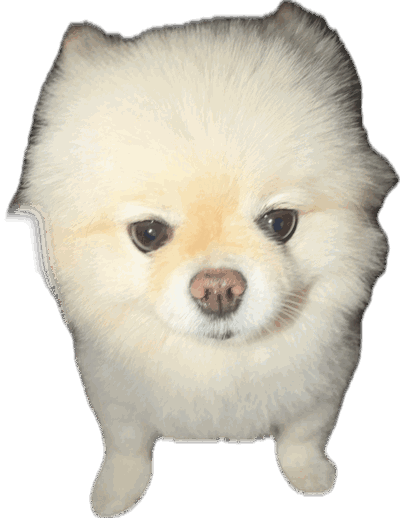
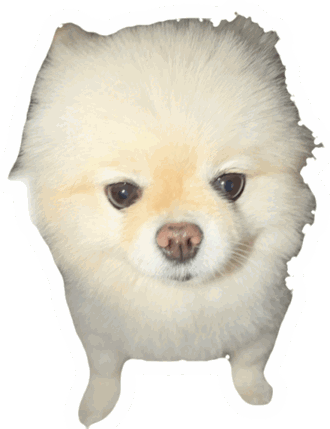
첫 화면 강아지를 스티커로 다시 따고, 말풍선 옆에 세우기
누끼를 다시 땄다. 흰 바탕에 합친 뒤 rembg(u2net, alpha matting)로 잘랐는데,
원본에 박혀 있던 검은 테두리는 rembg 가 강아지의 일부로 보기 때문에 그대로
남았다. 그래서 알파를 Disk:6 만큼 깎아 털끝을 다듬은 뒤, 가장자리 띠 안에서만
어두운 픽셀을 골라 지웠다. 띠 밖까지 지우면 눈과 코가 뚫린다.

그다음 알파를 Disk:20 으로 부풀려 흰 실루엣을 만들고 그 위에 강아지를 얹어
스티커 테두리를 둘렀다. 남은 얼룩도 이 테두리가 가려 준다.

리본은 머리에서 목으로 내려 나비넥타이가 됐다(top 65%). 69% 는 가슴까지
내려가고, 60% 는 입에 문 것처럼 보였다.

인사줄을 강아지(왼쪽) + 말풍선(오른쪽)으로 바꿨다. 말풍선에 왼쪽을 가리키는
꼬리를 새로 만들어 강아지가 말하는 모양이 된다. 안에는 "급수를 골라 주세요" 를
크게, "모르는 단어만 계속 돌아와요 💫" 를 작게 넣었다. 폰 폭에서 한 줄에
들어가도록 강아지를 104px 로 고정했다. 더 키우면 이모지가 혼자 다음 줄로 밀린다.

카드 화면에서 메모장 잡은 강아지는 취소했다. 그림 두 장과 관련 규칙을 지웠다.

급수 버튼과 다른 기능은 그대로다. 강아지 검사를 새 배치에 맞춰 다시 쓰고
(폭 320·390·430px), 기능 44가지·카드 10가지·테마 23가지도 그대로 통과한다.

Claude-Session: https://claude.ai/code/session_01PovSBsqtckLb3HViB4k4Bm

diff --git a/jlpt_version/스타일.css b/jlpt_version/스타일.css
@@ -462,7 +462,8 @@ body {
 
 /* 꼬리: 테두리색 삼각형 위에 흰 삼각형을 겹쳐 올린다 */
 .말풍선.아래꼬리::before, .말풍선.아래꼬리::after,
-.말풍선.위꼬리::before, .말풍선.위꼬리::after {
+.말풍선.위꼬리::before, .말풍선.위꼬리::after,
+.말풍선.왼꼬리::before, .말풍선.왼꼬리::after {
   content: "";
   position: absolute;
   left: 50%;
@@ -471,12 +472,25 @@ body {
 }
 
 /* 흰 삼각형(::after)을 2px 작게 겹쳐서 테두리색이 둘레로만 보이게 한다. */
-.말풍선.아래꼬리::after, .말풍선.위꼬리::after { border-width: 9px; }
+.말풍선.아래꼬리::after, .말풍선.위꼬리::after, .말풍선.왼꼬리::after { border-width: 9px; }
 
 .말풍선.아래꼬리::before { bottom: -21px; border-top-color: var(--핑크); }
 .말풍선.아래꼬리::after  { bottom: -17px; border-top-color: var(--말풍선바탕); }
 .말풍선.위꼬리::before   { top: -21px; border-bottom-color: var(--핑크); }
 .말풍선.위꼬리::after    { top: -17px; border-bottom-color: var(--말풍선바탕); }
+
+/* 왼쪽(강아지 쪽)을 가리키는 꼬리 */
+.말풍선.왼꼬리::before {
+  left: -21px; top: 50%;
+  transform: translateY(-50%);
+  border-right-color: var(--핑크);
+}
+
+.말풍선.왼꼬리::after {
+  left: -16px; top: 50%;
+  transform: translateY(-50%);
+  border-right-color: var(--말풍선바탕);
+}
 
 /* 창버튼·초기화 결과를 알리는 쪽지 */
 .쪽지 {
@@ -583,15 +597,27 @@ body {
 .급수화면 { text-align: center; }
 
 /*
- * 급수 화면의 강아지. 사진 위에 리본 SVG 를 겹쳐 머리에 얹은 것처럼 보이게 한다.
- * 리본 자리는 사진 크기에 대한 비율(%)로 잡아 두어서, 사진 폭만 바꾸면 같이 따라간다.
+ * 인사줄 — 왼쪽에 강아지, 오른쪽에 말풍선. 강아지가 말을 거는 모양이다.
+ * 좁은 폰 화면에서도 한 줄에 들어가야 해서 강아지 폭을 고정하고 말풍선이 남은 폭을 가진다.
+ */
+.인사줄 {
+  display: flex;
+  align-items: center;
+  gap: 10px;
+  margin-bottom: 18px;
+  text-align: left;
+}
+
+/*
+ * 강아지 사진은 흰 테두리를 두른 스티커다(그림/리본강아지.png).
+ * 리본 자리는 사진 크기에 대한 비율(%)이라 사진 폭만 바꾸면 같이 따라간다.
  */
 .리본강아지 {
   position: relative;
-  display: inline-block;
-  width: 134px;
-  margin-bottom: 2px;
+  flex: 0 0 104px;
+  width: 104px;
   line-height: 0;
+  filter: drop-shadow(0 3px 3px rgba(120, 60, 100, .3));
 }
 
 .강아지사진 {
@@ -600,25 +626,35 @@ body {
   filter: brightness(var(--사진밝기));
 }
 
+/* 목에 맨 나비넥타이. 턱 바로 아래 가슴털 자리다. 더 올리면 입에 문 것처럼 보인다. */
 .리본 {
   position: absolute;
-  left: 24%;
-  top: 1%;
-  width: 52%;
+  left: 27%;
+  top: 65%;
+  width: 46%;
   height: auto;
-  transform: rotate(-9deg);
+  transform: rotate(-4deg);
   filter: drop-shadow(0 2px 2px rgba(120, 60, 100, .35));
 }
 
+.인사말풍선 {
+  flex: 1 1 auto;
+  min-width: 0;
+  max-width: none;
+  margin: 0;
+  padding: 11px 13px;
+  text-align: center;
+}
+
 .급수제목 {
-  margin: 0 0 2px;
-  font-size: 1.4rem;
+  margin: 0 0 4px;
+  font-size: 1.32rem;
   font-weight: 400;
   color: var(--핑크글자);
   text-shadow: var(--제목글자그림자);
 }
 
-.작은안내 { margin: 0 0 16px; font-size: .9rem; color: var(--보조글자); }
+.작은안내 { margin: 0; font-size: .78rem; line-height: 1.4; color: var(--보조글자); word-break: keep-all; }
 
 .급수버튼줄 { display: flex; flex-direction: column; gap: 13px; }
 
@@ -664,43 +700,6 @@ body {
 .회차글 { margin: 5px 0 0; font-size: .8rem; color: var(--보조글자); }
 
 /* ── 단어 카드 (스프링 다이어리 속지) ──────────────── */
-
-/*
- * 카드 위로 얼굴을 내민 모자 강아지와, 속지에 걸친 앞발.
- * 메모장칸 의 위쪽 여백이 얼굴이 올라앉을 자리다.
- * 얼굴은 속지의 위쪽 안쪽 여백(44px)까지만 내려오게 해서 글씨를 가리지 않는다.
- */
-.메모장칸 {
-  position: relative;
-  padding-top: 68px;   /* 얼굴이 내려앉을 자리. 줄이면 턱이 글자를 건드린다 */
-}
-
-.메모장강아지 {
-  position: absolute;
-  z-index: 3;
-  top: 0;
-  left: 50%;
-  width: 132px;
-  height: auto;
-  transform: translateX(-52%);
-  filter: brightness(var(--사진밝기)) drop-shadow(0 3px 4px rgba(120, 60, 100, .35));
-}
-
-/*
- * 앞발. 얼굴에서 충분히 떨어뜨려 놓는다. 너무 가까우면 귀처럼 보인다.
- * 위쪽 절반이 속지 테두리에 걸쳐서 "메모장을 잡은" 모양이 된다.
- */
-.강아지발 {
-  position: absolute;
-  z-index: 2;
-  top: 56px;
-  width: 48px;
-  height: auto;
-  filter: brightness(var(--사진밝기)) drop-shadow(0 2px 3px rgba(120, 60, 100, .3));
-}
-
-.강아지발.왼발 { left: calc(50% - 112px); transform: rotate(18deg); }
-.강아지발.오른발 { right: calc(50% - 112px); transform: scaleX(-1) rotate(18deg); }
 
 /* 지브라 무늬는 여기, 카드 바깥 테두리에만 얇게 둘린다. */
 .다이어리바깥 {

diff --git a/jlpt_version/index.html b/jlpt_version/index.html
@@ -86,17 +86,24 @@
 
     <!-- 1번째 화면: 급수 선택 -->
     <section class="화면 급수화면" id="급수화면" aria-labelledby="급수제목">
-      <!-- 리본을 머리에 얹은 강아지. 사진과 리본 모두 장식이라 낭독기에서는 숨긴다. -->
-      <div class="리본강아지" aria-hidden="true">
-        <img class="강아지사진" src="그림/리본강아지.png" alt="" width="400" height="518">
-        <svg class="리본" viewBox="0 0 160 60">
-          <path d="M80 34c-14-2-26-16-40-22-8-3-14 2-13 10 1 9 13 15 29 16-11 3-20 7-20 14 0 6 7 9 14 6 12-5 22-14 30-22z" fill="#ff8cc6" stroke="#e0397f" stroke-width="2.5"/>
-          <path d="M80 34c14-2 26-16 40-22 8-3 14 2 13 10-1 9-13 15-29 16 11 3 20 7 20 14 0 6-7 9-14 6-12-5-22-14-30-22z" fill="#ffa8d2" stroke="#e0397f" stroke-width="2.5"/>
-          <ellipse cx="80" cy="34" rx="11" ry="9" fill="#fff0f7" stroke="#e0397f" stroke-width="2.5"/>
-        </svg>
+      <!-- 왼쪽에 강아지 스티커, 오른쪽에 강아지가 말하는 말풍선 -->
+      <div class="인사줄">
+        <div class="리본강아지" aria-hidden="true">
+          <img class="강아지사진" src="그림/리본강아지.png" alt="" width="330" height="429">
+          <!-- 목에 맨 나비넥타이 -->
+          <svg class="리본" viewBox="0 0 160 60">
+            <path d="M80 34c-14-2-26-16-40-22-8-3-14 2-13 10 1 9 13 15 29 16-11 3-20 7-20 14 0 6 7 9 14 6 12-5 22-14 30-22z" fill="#ff8cc6" stroke="#e0397f" stroke-width="2.5"/>
+            <path d="M80 34c14-2 26-16 40-22 8-3 14 2 13 10-1 9-13 15-29 16 11 3 20 7 20 14 0 6-7 9-14 6-12-5-22-14-30-22z" fill="#ffa8d2" stroke="#e0397f" stroke-width="2.5"/>
+            <ellipse cx="80" cy="34" rx="11" ry="9" fill="#fff0f7" stroke="#e0397f" stroke-width="2.5"/>
+          </svg>
+        </div>
+
+        <div class="말풍선 인사말풍선 왼꼬리">
+          <h2 class="급수제목" id="급수제목">급수를 골라 주세요</h2>
+          <p class="작은안내">모르는 단어만 계속 돌아와요 💫</p>
+        </div>
       </div>
-      <h2 class="급수제목" id="급수제목">급수를 골라 주세요</h2>
-      <p class="작은안내">모르는 단어만 계속 돌아와요 💫</p>
+
       <div class="급수버튼줄" id="급수버튼줄">
         <!-- 급수 젤리 버튼은 앱.js 가 채운다 -->
       </div>
@@ -111,12 +118,7 @@
         <p class="회차글" id="회차글">1회차 · 남은 카드 0장</p>
       </div>
 
-      <!-- 지브라 무늬 테두리 안에 스프링 다이어리 속지.
-           모자 쓴 강아지가 속지 위로 얼굴을 내밀고 앞발을 걸친다. -->
-      <div class="메모장칸">
-        <img class="메모장강아지" src="그림/메모장강아지.png" alt="" aria-hidden="true" width="460" height="379">
-        <img class="강아지발 왼발" src="그림/강아지발.png" alt="" aria-hidden="true" width="150" height="153">
-        <img class="강아지발 오른발" src="그림/강아지발.png" alt="" aria-hidden="true" width="150" height="153">
+      <!-- 지브라 무늬 테두리 안에 스프링 다이어리 속지 -->
       <div class="다이어리바깥">
         <article class="다이어리" id="다이어리">
           <div class="스프링" aria-hidden="true">
@@ -130,7 +132,6 @@
           <p class="말풍선 뜻 위꼬리" id="뜻" hidden></p>
           <p class="가나알림" id="가나알림" hidden>한자가 없는 단어예요</p>
         </article>
-      </div>
       </div>
 
       <!-- 보여 줄 것 켜고 끄기 -->

diff --git a/jlpt_version/CLAUDE.md b/jlpt_version/CLAUDE.md
@@ -37,8 +37,8 @@ python -m http.server 8765 --directory jlpt_version    # 저장소 뿌리에서
     카드를 넘기는 0.3초 동안에도 글씨 뒤로 비치지 않는다
 11. 툴바의 🌙 를 누르면 밤 모드로 바뀌고, 글씨가 바탕에 묻히는 곳이 없다.
     새로고침해도, 🧹 기록 초기화를 해도 모드가 그대로다
-12. 급수 화면의 강아지가 리본을 **머리에** 쓰고 있고, 카드 화면의 강아지는 얼굴이
-    메모장 위로 나오고 앞발이 속지에 걸쳐 있다. **턱이 단어를 가리지 않는다**
+12. 급수 화면에서 강아지가 **왼쪽**, 말풍선이 **오른쪽**에 한 줄로 서고, 말풍선 꼬리가
+    강아지를 가리킨다. 리본은 **목에 맨 나비넥타이**다. 카드 화면에는 강아지가 없다
 
 `words.json` 만 고쳤다면 1·3·4 와 **콘솔 경고**만 봐도 된다.
 형식이 틀린 항목은 앱이 건너뛰면서 콘솔에 몇 번째 항목인지 적어 준다.
@@ -55,7 +55,7 @@ js/학습기록.js      localStorage 읽고 쓰기
 js/카드.js          카드 한 장 그리기 (화면만 만지고 기록은 안 건드림)
 js/꾸미기.js        쪽지 말풍선, 창 접기·닫기 장난, 시간 표시
 데이터/words.json   단어 데이터. 이것만 고치면 단어가 늘어난다
-그림/               강아지 사진 세 장 (사용자가 준 사진을 손질한 것)
+그림/리본강아지.png  급수 화면 강아지 스티커 (사용자가 준 사진을 손질한 것)
 ```
 
 ES 모듈(`<script type="module">`)을 쓴다. 그래서 파일을 나눠도 번들러가 필요 없다.
@@ -120,22 +120,28 @@ ES 모듈(`<script type="module">`)을 쓴다. 그래서 파일을 나눠도 번
 답이 먼저 보여 외우는 의미가 없기 때문이다. 그래서 버튼 상태는 **저장하지 않는다.**
 카드마다 꺼지므로 저장해 두어도 다시 쓸 일이 없다.
 
-**강아지 사진은 `그림/` 에 있고 손으로 고치지 않는다.** 사용자가 준 사진을 ImageMagick
-으로 손질한 결과물이다. 다시 만들 일이 있으면 원본부터 다시 손질한다.
+**`그림/리본강아지.png` 는 손으로 고치지 않는다.** 사용자가 준 사진을 이 순서로 만든
+결과물이다. 다시 만들 일이 있으면 원본부터 같은 순서를 밟는다.
 
-- `리본강아지.png` — 원본 왼쪽에 있던 사람 손을 지웠다. 털 경계를 따라 다각형 마스크를
-  만들고 `-blur 0x22` 로 가장자리를 흐린 뒤 알파에 곱했다. 흐리지 않으면 자른 자리가
-  직선으로 보인다.
-- `메모장강아지.png`, `강아지발.png` — 자르고 줄이기만 했다. 발은 리본강아지의 앞발을
-  오려낸 것이고, 오른발은 CSS `scaleX(-1)` 로 뒤집어 같은 파일을 두 번 쓴다.
-- 셋 다 `-colors 128` 로 색을 줄였다(216KB → 52KB). 눈으로는 차이가 없다.
-- **줄인 뒤에는 반드시 `-channel A -level 2%,100%` 로 알파를 정리한다.** 색을 줄이면
-  투명해야 할 자리에 알파 1/255 짜리 먼지가 남아, 흰 바탕 위에서 사진 둘레가
-  옅은 사각형으로 비친다. 실제로 그렇게 보였다.
+1. 원본 왼쪽에 있던 사람 손을 지운다. 털 경계를 따라 다각형 마스크를 만들고
+   `-blur 0x22` 로 가장자리를 흐린 뒤 알파에 곱한다. 흐리지 않으면 자른 자리가 직선으로 보인다.
+2. 흰 바탕에 합친 뒤 `rembg`(u2net, alpha matting)로 누끼를 다시 딴다.
+3. **원본에 박혀 있는 검은 테두리를 걷어낸다.** rembg 는 이것을 강아지의 일부로 보기
+   때문에 그냥 두면 그대로 남는다. 알파를 `Disk:6` 만큼 깎아 털끝을 다듬은 다음,
+   *가장자리 띠 안에서만* 어두운 픽셀(밝기 48% 미만)을 골라 지운다. 띠를 벗어난 곳까지
+   지우면 눈과 코가 뚫린다.
+4. 알파를 `Disk:20` 으로 부풀려 흰 실루엣을 만들고 그 위에 강아지를 얹는다.
+   이게 스티커 테두리다. 남은 얼룩도 이 테두리가 가려 준다.
+5. `-colors 128` 로 색을 줄이고(216KB → 36KB), **반드시** `-channel A -level 2%,100%` 로
+   알파를 정리한다. 색을 줄이면 투명해야 할 자리에 알파 1/255 짜리 먼지가 남아,
+   흰 바탕 위에서 사진 둘레가 옅은 사각형으로 비친다. 실제로 그렇게 보였다.
 
-**강아지 자리는 비율이 아니라 px 로 잡혀 있다.** 리본은 사진 크기에 대한 %, 얼굴과 발은
-`.메모장칸` 의 위쪽 여백(68px)을 기준으로 한 px 다. 여백을 줄이면 턱이 단어를 건드린다.
-사진 크기를 바꿀 때는 폭 390px·320px 두 가지로 확인한다.
+**리본은 사진 위에 겹친 SVG 다.** 자리는 사진 크기에 대한 비율(`top: 65%`)이라 사진
+폭만 바꾸면 따라간다. 65% 는 턱 바로 아래 가슴털이다. 더 올리면 입에 문 것처럼 보인다.
+
+**인사줄은 폰 폭에서 한 줄에 들어가야 한다.** 강아지 폭을 104px 로 고정하고 말풍선이
+남은 폭을 가진다. 강아지를 키우면 "모르는 단어만 계속 돌아와요 💫" 의 이모지가 혼자
+다음 줄로 밀려난다. 폭 390px·320px 두 가지로 확인한다.
 
 **localStorage 를 못 쓰는 브라우저가 있다.** 사생활 보호 모드에서는 읽기·쓰기가 예외를
 던진다. `js/학습기록.js` 가 전부 try 로 감싸고 있으므로 **그 밖에서 localStorage 를

diff --git a/jlpt_version/README.md b/jlpt_version/README.md
@@ -77,8 +77,8 @@ python -m http.server 8765 --directory jlpt_version    # 저장소 뿌리에서
 - 바깥에서 받아 오는 것은 Google Fonts 글꼴뿐이고, 못 받아도 글꼴만 바뀝니다.
 - 화면은 휴대폰 폭을 기준으로 만들었고, 누르는 버튼은 48px 이상입니다.
 - 밤 모드는 색 변수만 갈아끼우는 방식이라 디자인(물방울·지브라·젤리)이 그대로 유지됩니다.
-- 급수 화면과 카드 화면의 강아지 사진은 `그림/` 에 있습니다. 바꾸고 싶으면 같은 이름으로
-  덮어쓰면 됩니다 (배경이 투명한 PNG).
+- 첫 화면 강아지는 `그림/리본강아지.png` 입니다. 바꾸고 싶으면 같은 이름으로 덮어쓰면
+  됩니다 (배경이 투명한 PNG). 흰 테두리까지 그림에 들어 있습니다.
 - 꾸밈(리본·별·하트·나비·반짝이·지브라 무늬·젤리 버튼)은 전부 CSS·SVG·이모지입니다.
 
 자세한 구조는 [CLAUDE.md](CLAUDE.md) 를 보세요.
